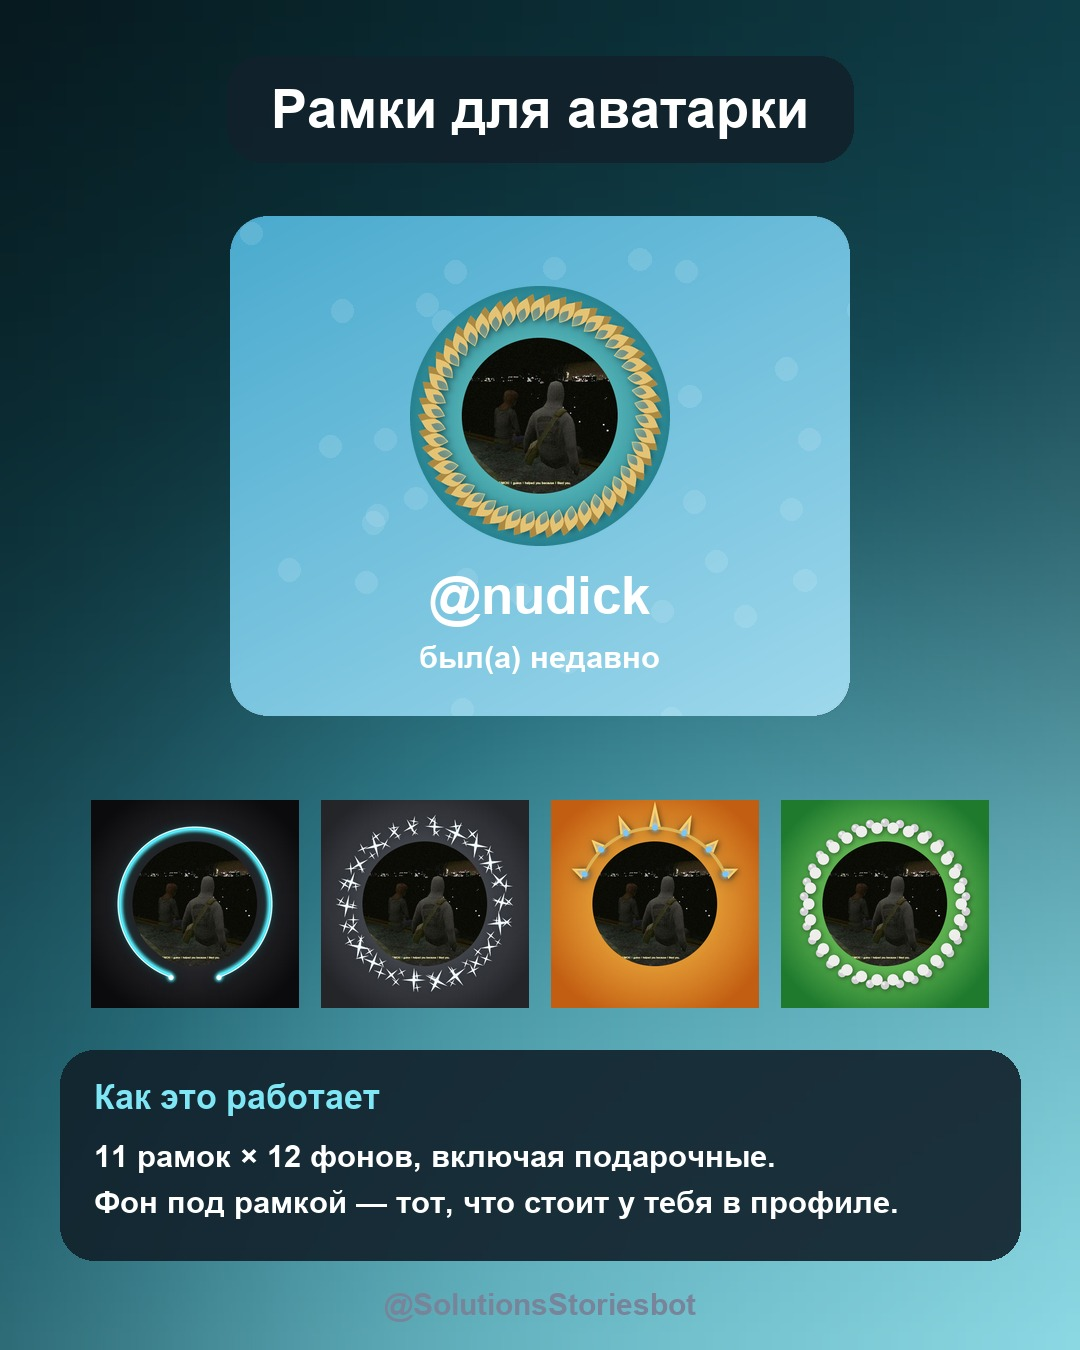
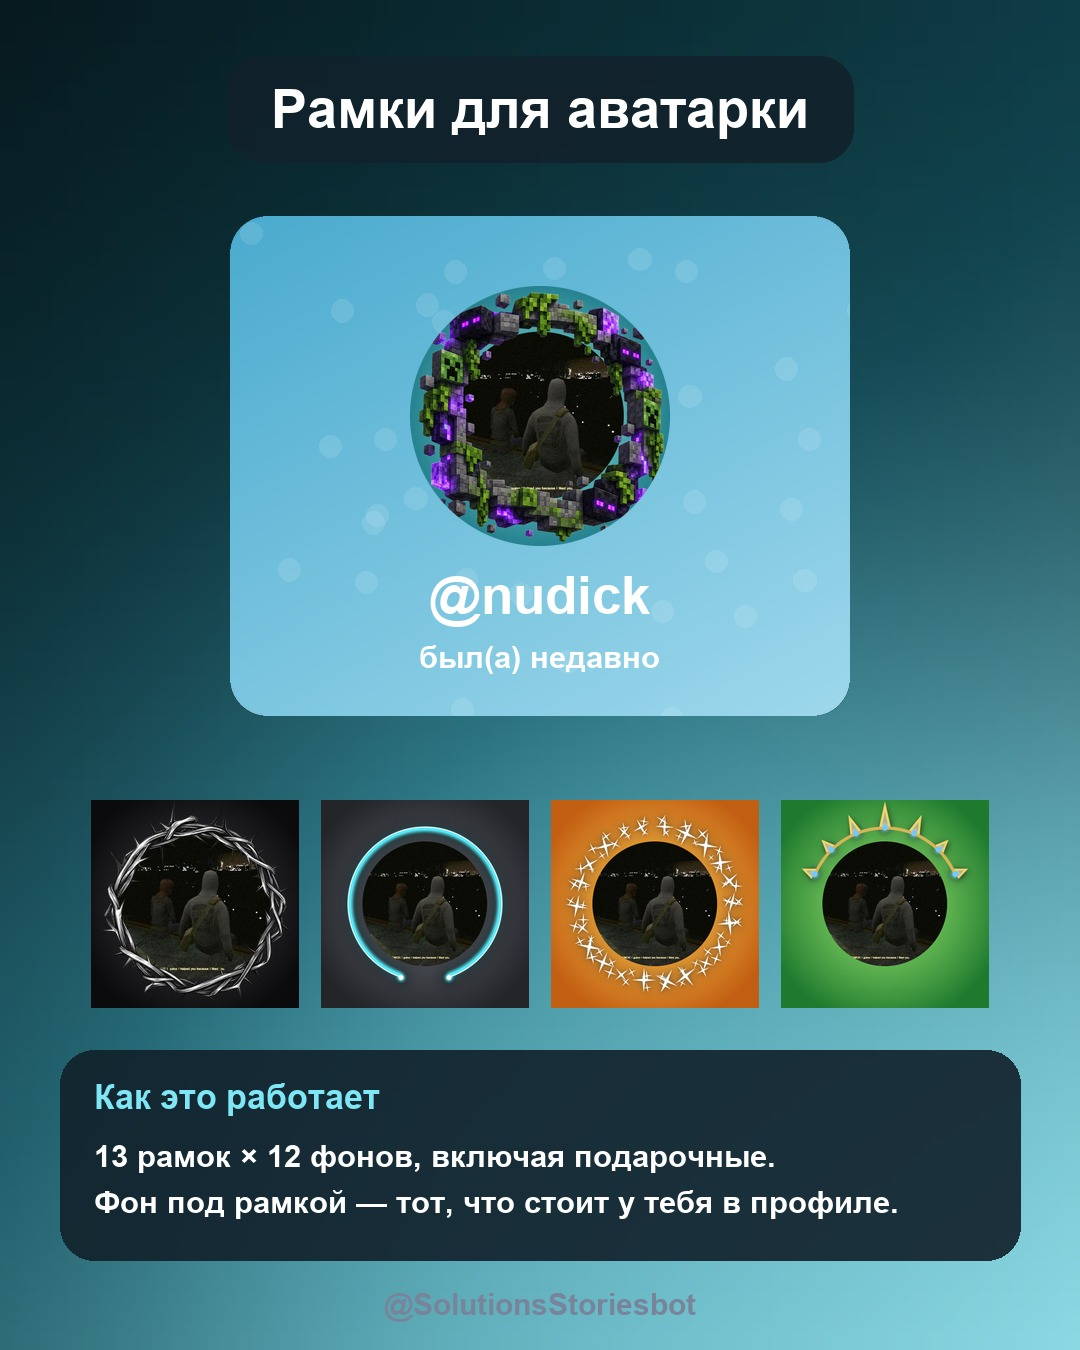
Добавлены две рисованные рамки: Майнкрафт и Терновый венец
Первая пришла RGB без альфы на почти-белом (углы 237–253) — фон
вырезался автоматически, серые блоки при этом уцелели: они далеко от
порога. Вторая уже была с прозрачностью.

Просвет у них разный, 0.65 и 0.72 холста, и фото под каждую
масштабируется своё — ровно та причина, по которой размер считается по
дырке, а не задаётся числом.

Витрина теперь показывает их, а не процедурные: продаём рамки, и
рисованная продаёт лучше.

Подчёркивания в подписи заменяются пробелом — это след от имени файла,
а человек видит название в карусели.

diff --git a/make_assets.py b/make_assets.py
@@ -687,12 +687,12 @@ def make_frames(source: bytes) -> Image.Image:
     draw = ImageDraw.Draw(card, "RGBA")
     title_plate(draw, "Рамки для аватарки")
 
-    #: Золотой венок, а не чернильная маска: на тёмной аватарке тёмная
-    #: маска сливается с фотографией, и рамки на витрине просто не видно.
-    hero = profile_card(source, 0, 7, "@nudick", 620, 500)
+    #: На витрину — самая нарядная из загруженных: витрина продаёт
+    #: рамки, а не движок, и рисованная продаёт лучше процедурной.
+    hero = profile_card(source, 11, 7, "@nudick", 620, 500)
     card.paste(hero, ((W - hero.width) // 2, 216), hero)
 
-    picks = [3, 5, 7, 1]
+    picks = [12, 3, 5, 7]
     size, gap = 208, 22
     start_x = (W - (size * len(picks) + gap * (len(picks) - 1))) // 2
     row_y = 800

diff --git a/frames.py b/frames.py
@@ -505,7 +505,9 @@ def frame_count() -> int:
 def frame_name(index: int) -> str:
     if index < len(FRAMES):
         return FRAMES[index][0]
-    return custom_frames()[index - len(FRAMES)].stem
+    #: Подчёркивания в подписи — след от имени файла, а человек видит
+    #: это название в карусели.
+    return custom_frames()[index - len(FRAMES)].stem.replace("_", " ")
 
 
 #: Разобранные PNG держим в памяти: иначе каждая аватарка заново читает
